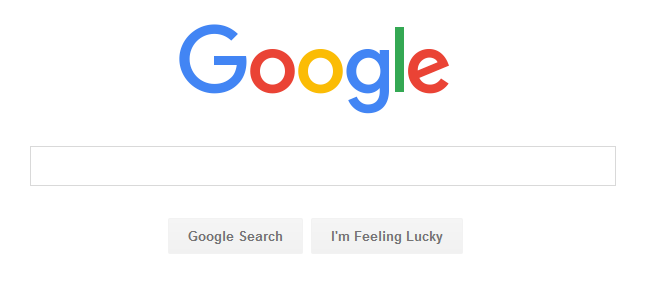
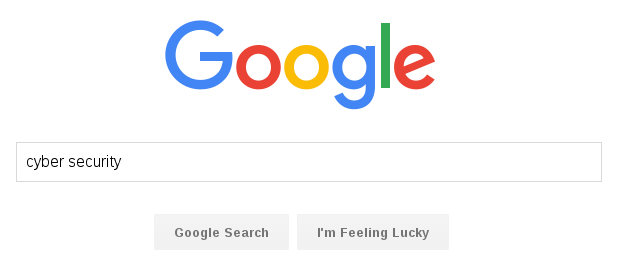
Site updated at: 2016-07-21 21:01:37 UTC

diff --git a/2016/07/18/information-gathering-with-recon-ng.html b/2016/07/18/information-gathering-with-recon-ng.html
@@ -1,0 +1,187 @@
+<!DOCTYPE html>
+<html>
+  <link rel="shortcut icon" type="image/x-icon" href="/favicon.ico?">
+  <head>
+  <meta charset="utf-8">
+  <meta http-equiv="X-UA-Compatible" content="IE=edge">
+  <meta name="viewport" content="width=device-width, initial-scale=1">
+
+  <title>Information Gathering with Google Search Engine</title>
+  <meta name="description" content="Generally, when we want to search for a particular argument, we open up our favourite browser, navigate to a Web Search Engine and type in some words related...">
+
+  <link rel="stylesheet" href="/css/main.css">
+  <link rel="canonical" href="https://spreadsecurity.github.io//2016/07/18/information-gathering-with-recon-ng.html">
+  <link rel="alternate" type="application/rss+xml" title="Spread Security" href="https://spreadsecurity.github.io//feed.xml">
+</head>
+
+
+  <body>
+
+    <header class="site-header">
+
+  <div class="wrapper">
+
+    <a class="site-title" href="/">Spread Security</a>
+
+    <nav class="site-nav">
+      <a href="#" class="menu-icon">
+        <svg viewBox="0 0 18 15">
+          <path fill="#424242" d="M18,1.484c0,0.82-0.665,1.484-1.484,1.484H1.484C0.665,2.969,0,2.304,0,1.484l0,0C0,0.665,0.665,0,1.484,0 h15.031C17.335,0,18,0.665,18,1.484L18,1.484z"/>
+          <path fill="#424242" d="M18,7.516C18,8.335,17.335,9,16.516,9H1.484C0.665,9,0,8.335,0,7.516l0,0c0-0.82,0.665-1.484,1.484-1.484 h15.031C17.335,6.031,18,6.696,18,7.516L18,7.516z"/>
+          <path fill="#424242" d="M18,13.516C18,14.335,17.335,15,16.516,15H1.484C0.665,15,0,14.335,0,13.516l0,0 c0-0.82,0.665-1.484,1.484-1.484h15.031C17.335,12.031,18,12.696,18,13.516L18,13.516z"/>
+        </svg>
+      </a>
+
+      <div class="trigger">
+        
+          
+          <a class="page-link" href="/about/">About</a>
+          
+        
+          
+          <a class="page-link" href="/archive/">Archive</a>
+          
+        
+          
+        
+          
+        
+          
+          <a class="page-link" href="/feed/">Subscribe</a>
+          
+        
+          
+          <a class="page-link" href="/tags/">Tags</a>
+          
+        
+      </div>
+    </nav>
+
+  </div>
+
+</header>
+
+
+    <div class="page-content">
+      <div class="wrapper">
+        <article class="post" itemscope itemtype="http://schema.org/BlogPosting">
+
+  <header class="post-header">
+    <h1 class="post-title" itemprop="name headline">Information Gathering with Google Search Engine</h1>
+    <p class="post-meta"><time datetime="2016-07-18T00:00:00+02:00" itemprop="datePublished">Jul 18, 2016</time></p>
+  </header>
+
+  <div class="post-content" itemprop="articleBody">
+    <p>Generally, when we want to search for a particular argument, we open up our favourite browser, navigate to a Web Search Engine and type in some words related to that matter. Depending from how good we set up the research, we obtain more or less pertinent results.</p>
+
+<p>Basically, everytime we launch a search we make a query to the web search engine: there are some particular expressions known to the engine, called Advanced Search Operators, which make a search more effective.
+<!--more-->
+For example, we can look for “cyber security” using Google Search Engine:</p>
+
+<p class="center"><img src="/images/google_search.png" alt="" /></p>
+
+<p>By doing this we obtain a good amount of informations about the argument; note that we could achieve the same result by using the following url instead of compiling the search form:</p>
+
+<figure class="highlight"><pre><code class="language-text" data-lang="text">https://www.google.com/search?q=cyber+security</code></pre></figure>
+
+<p><b>Google Advanced Search Operators and Special Search Characters</b></p>
+
+<p>What if we want to do a more specific query, like obtaining all the results for that topic from a particular website? Here come advanced search operators.
+Suppose we want to analyze results coming from NIST (National Institute of Standards and Technology) for that topic; then the query should be:</p>
+
+<figure class="highlight"><pre><code class="language-text" data-lang="text">site:nist.gov "cyber security"</code></pre></figure>
+
+<p>The operator “site:” asks to the engine to show all the results associated to the website (which represent the argument of the operator) reported after the colon symbol; beware that there must be no space between the colon symbol and the argument of the operator.
+In addition to search operators, there are special search characters like the double quotes used before to search phrases or terms composed by more than one word.</p>
+
+<p>A pretty good list of Google advanced search operators is this one from DEFCON 2005 Conference:</p>
+
+<p class="center"><img src="/images/google_search_operators.png" alt="" /></p>
+
+<p>List for special search characters:</p>
+<ul>
+  <li>( + ) force inclusion of something common;</li>
+  <li>( - ) exclude a search term;</li>
+  <li>( " ) use quotes around search phrases;</li>
+  <li>( . ) a single-character wildcard;</li>
+  <li>( * ) any word;</li>
+  <li>( &amp; ) boolean 'AND';</li>
+  <li>( | ) boolean 'OR';</li>
+</ul>
+
+<p>The special char “-“ is really interesting for listing subdomains. Considering the next query we obtain a list of the subdomains of nist.gov:</p>
+
+<p class="center"><img src="/images/nist_search.png" alt="" /></p>
+
+<p>Adding more “-“ condition allows to crawl even deeper: keep in mind that Google ranks the results, so the most searched stuff lies at the top, i.e. in the first pages, while the most interesting informations (from an attacker point of view) can be found at the bottom.</p>
+
+<p>Now we will look for something more interesting in terms of confidential informations; suppose we want to know if in a certain website there is a PDF document containing the word “password”. For this purpose, we query Google with the following request:</p>
+
+<figure class="highlight"><pre><code class="language-text" data-lang="text">site:www.nameoftargetsite.com filetype:pdf intext:password</code></pre></figure>
+
+<p>The meaning of the previous line is explained next: the first operator is well known; the “filetype:” directive tells Google we want to search all the files with a particular extension, in this case PDF. Lastly, we add a third condition which makes the engine search for a specific word in the text.
+So, interpreting the whole query: we are asking to search through the site www.nameoftargetsite.com all PDF documents containing the word “password”.</p>
+
+<p>You can easily see how powerful this syntax is and you will be surprised by discovering the amount of confidential informations left to public access.
+This is why it is important to configure properly the access to informations hosted on the net, for example in a website. However, if not really needed, it is a good practice to avoid hosting of confidential documents on websites, since they are the first contact point for attackers.</p>
+
+<p><b>Internet of things</b></p>
+
+<p>Confidential documents are not the only problem in terms of Security. In fact, today a large number of devices are connected to Internet, from smartphones or watches to air-conditioning devices or even refrigerators: this is what has been called “Internet of Things” (IoT), i.e. the network composed by physical devices collecting and exchanging data between themselves.</p>
+
+<p class="center"><img src="/images/IoT.png" alt="" /></p>
+
+<p>Of course, a wrong access configuration of these devices can generate serious problem in term of privacy.
+The simplest example is given by private webcams, or better what they are intended to be: in fact, if they are set to have a public IP address and have not been secured properly, they can be accessed from anywhere in the world by anyone. Moreover, even if they are configured to request login credentials, many of them still have default access values, which can be easily acquired by reading the user manual.
+Generally the web control interface, depending from the webcam model, has a default page title and a defined pattern in the url used for the browser access (the only difference will be the IP address). So, once we know the title or the url pattern for a specific model, we can generate a Google query to search all the devices of that type exposed on the Internet.
+An example is given by this simple query which exploit the web console interface title:</p>
+
+<figure class="highlight"><pre><code class="language-text" data-lang="text">intitle:"Live View / - AXIS"</code></pre></figure>
+
+<p>In this way we can find all AXIS webcams with a public IP address indexed by Google.</p>
+
+<p>All these search activities can be executed by using automatic tools, which leverage not only Google, but a huge variety of search engines and social network platforms.<br />
+In the next posts we will take a look at some of them, but, before doing that, we will talk of a really powerful search engine for the IoT called Shodan.</p>
+
+  </div>
+
+</article>
+
+      </div>
+    </div>
+
+    <footer class="site-footer">
+
+  <div class="wrapper">
+
+    <div class="footer-col-wrapper">
+      <div class="footer-col footer-col-1">
+        <ul class="contact-list">
+          <!--<li>Spread Security</li>
+          <li><a href="mailto:spreadsec[at]gmail[dot]com">spreadsec[at]gmail[dot]com</a></li>-->
+        </ul>
+      </div>
+
+      <div class="footer-col footer-col-2">
+        <ul class="social-media-list">
+          
+
+          
+        </ul>
+      </div>
+
+      <div class="footer-col footer-col-3">
+        <p>© 2016 Spread Security | All Rights Reserved 
+</p>
+      </div>
+
+    </div>
+
+  </div>
+
+</footer>
+
+
+  </body>
+
+</html>

diff --git a/tags/index.html b/tags/index.html
@@ -73,18 +73,22 @@
 
   <div class="post-content">
     
-<!-- site_tags: ICT Security,Penetration test,Information gathering,Vulnerability analysis,Exploitation,Post-exploitation -->
+<!-- site_tags: ICT Security,Penetration test,Information gathering,Vulnerability analysis,Exploitation,Post-exploitation,Google advanced search operators,OSINT -->
 
-<!-- tag_words: ExploitationICT SecurityInformation gatheringPenetration testPost-exploitationVulnerability analysis -->
+<!-- tag_words: ExploitationGoogle advanced search operatorsICT SecurityInformation gatheringOSINTPenetration testPost-exploitationVulnerability analysis -->
 
 <div id="tags">
   <ul class="tag-box inline">
   
     <li><a href="#Exploitation">Exploitation <span>1</span></a></li>
   
+    <li><a href="#Google+advanced+search+operators">Google advanced search operators <span>1</span></a></li>
+  
     <li><a href="#ICT+Security">ICT Security <span>1</span></a></li>
   
-    <li><a href="#Information+gathering">Information gathering <span>1</span></a></li>
+    <li><a href="#Information+gathering">Information gathering <span>2</span></a></li>
+  
+    <li><a href="#OSINT">OSINT <span>1</span></a></li>
   
     <li><a href="#Penetration+test">Penetration test <span>1</span></a></li>
   
@@ -99,7 +103,15 @@
   <h2 id="Exploitation">Exploitation</h2>
   <ul class="posts">
     
-    <li itemscope><span class="entry-date"><time datetime="2016-07-11T00:00:00+02:00" itemprop="datePublished">July 11, 2016</time></span> &raquo; <a href="/2016/07/11/main-steps-of-an-attack.html">Main Steps of an Attack</a></li>
+    <li itemscope=""><span class="entry-date"><time datetime="2016-07-11T00:00:00+02:00" itemprop="datePublished">July 11, 2016</time></span> &raquo; <a href="/2016/07/11/main-steps-of-an-attack.html">Main Steps of an Attack</a></li>
+    
+  </ul>
+  
+    
+  <h2 id="Google+advanced+search+operators">Google advanced search operators</h2>
+  <ul class="posts">
+    
+    <li itemscope=""><span class="entry-date"><time datetime="2016-07-18T00:00:00+02:00" itemprop="datePublished">July 18, 2016</time></span> &raquo; <a href="/2016/07/18/information-gathering-with-recon-ng.html">Information Gathering with Google Search Engine</a></li>
     
   </ul>
   
@@ -107,7 +119,7 @@
   <h2 id="ICT+Security">ICT Security</h2>
   <ul class="posts">
     
-    <li itemscope><span class="entry-date"><time datetime="2016-07-04T00:00:00+02:00" itemprop="datePublished">July 04, 2016</time></span> &raquo; <a href="/2016/07/04/introduction.html">Introduction</a></li>
+    <li itemscope=""><span class="entry-date"><time datetime="2016-07-04T00:00:00+02:00" itemprop="datePublished">July 04, 2016</time></span> &raquo; <a href="/2016/07/04/introduction.html">Introduction</a></li>
     
   </ul>
   
@@ -115,7 +127,17 @@
   <h2 id="Information+gathering">Information gathering</h2>
   <ul class="posts">
     
-    <li itemscope><span class="entry-date"><time datetime="2016-07-11T00:00:00+02:00" itemprop="datePublished">July 11, 2016</time></span> &raquo; <a href="/2016/07/11/main-steps-of-an-attack.html">Main Steps of an Attack</a></li>
+    <li itemscope=""><span class="entry-date"><time datetime="2016-07-18T00:00:00+02:00" itemprop="datePublished">July 18, 2016</time></span> &raquo; <a href="/2016/07/18/information-gathering-with-recon-ng.html">Information Gathering with Google Search Engine</a></li>
+    
+    <li itemscope=""><span class="entry-date"><time datetime="2016-07-11T00:00:00+02:00" itemprop="datePublished">July 11, 2016</time></span> &raquo; <a href="/2016/07/11/main-steps-of-an-attack.html">Main Steps of an Attack</a></li>
+    
+  </ul>
+  
+    
+  <h2 id="OSINT">OSINT</h2>
+  <ul class="posts">
+    
+    <li itemscope=""><span class="entry-date"><time datetime="2016-07-18T00:00:00+02:00" itemprop="datePublished">July 18, 2016</time></span> &raquo; <a href="/2016/07/18/information-gathering-with-recon-ng.html">Information Gathering with Google Search Engine</a></li>
     
   </ul>
   
@@ -123,7 +145,7 @@
   <h2 id="Penetration+test">Penetration test</h2>
   <ul class="posts">
     
-    <li itemscope><span class="entry-date"><time datetime="2016-07-11T00:00:00+02:00" itemprop="datePublished">July 11, 2016</time></span> &raquo; <a href="/2016/07/11/main-steps-of-an-attack.html">Main Steps of an Attack</a></li>
+    <li itemscope=""><span class="entry-date"><time datetime="2016-07-11T00:00:00+02:00" itemprop="datePublished">July 11, 2016</time></span> &raquo; <a href="/2016/07/11/main-steps-of-an-attack.html">Main Steps of an Attack</a></li>
     
   </ul>
   
@@ -131,7 +153,7 @@
   <h2 id="Post-exploitation">Post-exploitation</h2>
   <ul class="posts">
     
-    <li itemscope><span class="entry-date"><time datetime="2016-07-11T00:00:00+02:00" itemprop="datePublished">July 11, 2016</time></span> &raquo; <a href="/2016/07/11/main-steps-of-an-attack.html">Main Steps of an Attack</a></li>
+    <li itemscope=""><span class="entry-date"><time datetime="2016-07-11T00:00:00+02:00" itemprop="datePublished">July 11, 2016</time></span> &raquo; <a href="/2016/07/11/main-steps-of-an-attack.html">Main Steps of an Attack</a></li>
     
   </ul>
   
@@ -139,11 +161,12 @@
   <h2 id="Vulnerability+analysis">Vulnerability analysis</h2>
   <ul class="posts">
     
-    <li itemscope><span class="entry-date"><time datetime="2016-07-11T00:00:00+02:00" itemprop="datePublished">July 11, 2016</time></span> &raquo; <a href="/2016/07/11/main-steps-of-an-attack.html">Main Steps of an Attack</a></li>
+    <li itemscope=""><span class="entry-date"><time datetime="2016-07-11T00:00:00+02:00" itemprop="datePublished">July 11, 2016</time></span> &raquo; <a href="/2016/07/11/main-steps-of-an-attack.html">Main Steps of an Attack</a></li>
     
   </ul>
   
 </div>
+
   </div>
 
 </article>

diff --git a/2016/07/21/information-gathering-with-shodan.html b/2016/07/21/information-gathering-with-shodan.html
@@ -6,12 +6,11 @@
   <meta http-equiv="X-UA-Compatible" content="IE=edge">
   <meta name="viewport" content="width=device-width, initial-scale=1">
 
-  <title>Archive</title>
-  <meta name="description" content="© 2016 Spread Security | All Rights Reserved 
-">
+  <title>Information Gathering With Shodan</title>
+  <meta name="description" content="">
 
   <link rel="stylesheet" href="/css/main.css">
-  <link rel="canonical" href="https://spreadsecurity.github.io//archive/">
+  <link rel="canonical" href="https://spreadsecurity.github.io//2016/07/21/information-gathering-with-shodan.html">
   <link rel="alternate" type="application/rss+xml" title="Spread Security" href="https://spreadsecurity.github.io//feed.xml">
 </head>
 
@@ -65,24 +64,15 @@
 
     <div class="page-content">
       <div class="wrapper">
-        <article class="post">
+        <article class="post" itemscope itemtype="http://schema.org/BlogPosting">
 
   <header class="post-header">
-    <h1 class="post-title">Archive</h1>
+    <h1 class="post-title" itemprop="name headline">Information Gathering With Shodan</h1>
+    <p class="post-meta"><time datetime="2016-07-21T20:25:55+02:00" itemprop="datePublished">Jul 21, 2016</time></p>
   </header>
 
-  <div class="post-content">
-    <ul>
-  
-    <li itemscope=""><span class="entry-date"><time datetime="2016-07-21T20:25:55+02:00" itemprop="datePublished">July 21, 2016</time></span> &raquo; <a href="/2016/07/21/information-gathering-with-shodan.html">Information Gathering With Shodan</a></li>
-  
-    <li itemscope=""><span class="entry-date"><time datetime="2016-07-18T00:00:00+02:00" itemprop="datePublished">July 18, 2016</time></span> &raquo; <a href="/2016/07/18/information-gathering-with-recon-ng.html">Information Gathering with Google Search Engine</a></li>
-  
-    <li itemscope=""><span class="entry-date"><time datetime="2016-07-11T00:00:00+02:00" itemprop="datePublished">July 11, 2016</time></span> &raquo; <a href="/2016/07/11/main-steps-of-an-attack.html">Main Steps of an Attack</a></li>
-  
-    <li itemscope=""><span class="entry-date"><time datetime="2016-07-04T00:00:00+02:00" itemprop="datePublished">July 04, 2016</time></span> &raquo; <a href="/2016/07/04/introduction.html">Introduction</a></li>
-  
-</ul>
+  <div class="post-content" itemprop="articleBody">
+    
 
   </div>
 

diff --git a/about/index.html b/about/index.html
@@ -72,17 +72,13 @@
   </header>
 
   <div class="post-content">
-    I'm an ICT Security enthusiast and this blog is a product of my interest in Information Security.
-<br>
+    <p>I’m an ICT Security enthusiast and this blog is a product of my interest in Information Security.
 The main aim of this project is to share knowledge to increase awareness.
-<br>
-Here you will find both theory and practice notions reguarding techniques attackers use to compromise systems and gather confidential data; by discussing these arguments I want to show how much it is important to keep systems up to date and configured properly.
-<br>
-<br>
-The Home Page contains a list of the most recent blog posts, while in the Archive Page you can find a list of all the articles. Check out the Tags Page if you search for a particular argument.
-<br>
-<br>
-If you want to contact me, feel free to send me an e-mail using the following contact: spreadsec[at]gmail[dot]com.
+Here you will find both theory and practice notions reguarding techniques attackers use to compromise systems and gather confidential data; by discussing these arguments I want to show how much it is important to keep systems up to date and configured properly.</p>
+
+<p>The Home Page contains a list of the most recent blog posts, while in the Archive Page you can find a list of all the articles. Check out the Tags Page if you search for a particular argument.</p>
+
+<p>If you want to contact me, feel free to send me an <a href="&#109;&#097;&#105;&#108;&#116;&#111;:&#115;&#112;&#114;&#101;&#097;&#100;&#115;&#101;&#099;&#091;&#097;&#116;&#093;&#103;&#109;&#097;&#105;&#108;&#091;&#100;&#111;&#116;&#093;&#099;&#111;&#109;">email</a>.</p>
 
   </div>
 

diff --git a/index.html b/index.html
@@ -72,6 +72,35 @@
   <ul class="post-list">
     
       <li>
+        <span class="post-meta">Jul 21, 2016</span>
+
+        <h2>
+          <a class="post-link" href="/2016/07/21/information-gathering-with-shodan.html">Information Gathering With Shodan</a>
+        </h2>
+        
+        
+
+              
+      </li>
+    
+      <li>
+        <span class="post-meta">Jul 18, 2016</span>
+
+        <h2>
+          <a class="post-link" href="/2016/07/18/information-gathering-with-recon-ng.html">Information Gathering with Google Search Engine</a>
+        </h2>
+        
+        <p>Generally, when we want to search for a particular argument, we open up our favourite browser, navigate to a Web Search Engine and type in some words related to that matter. Depending from how good we set up the research, we obtain more or less pertinent results.</p>
+
+<p>Basically, everytime we launch a search we make a query to the web search engine: there are some particular expressions known to the engine, called Advanced Search Operators, which make a search more effective.</p>
+
+
+        
+          <a href="/2016/07/18/information-gathering-with-recon-ng.html">Read more</a>
+              
+      </li>
+    
+      <li>
         <span class="post-meta">Jul 11, 2016</span>
 
         <h2>
